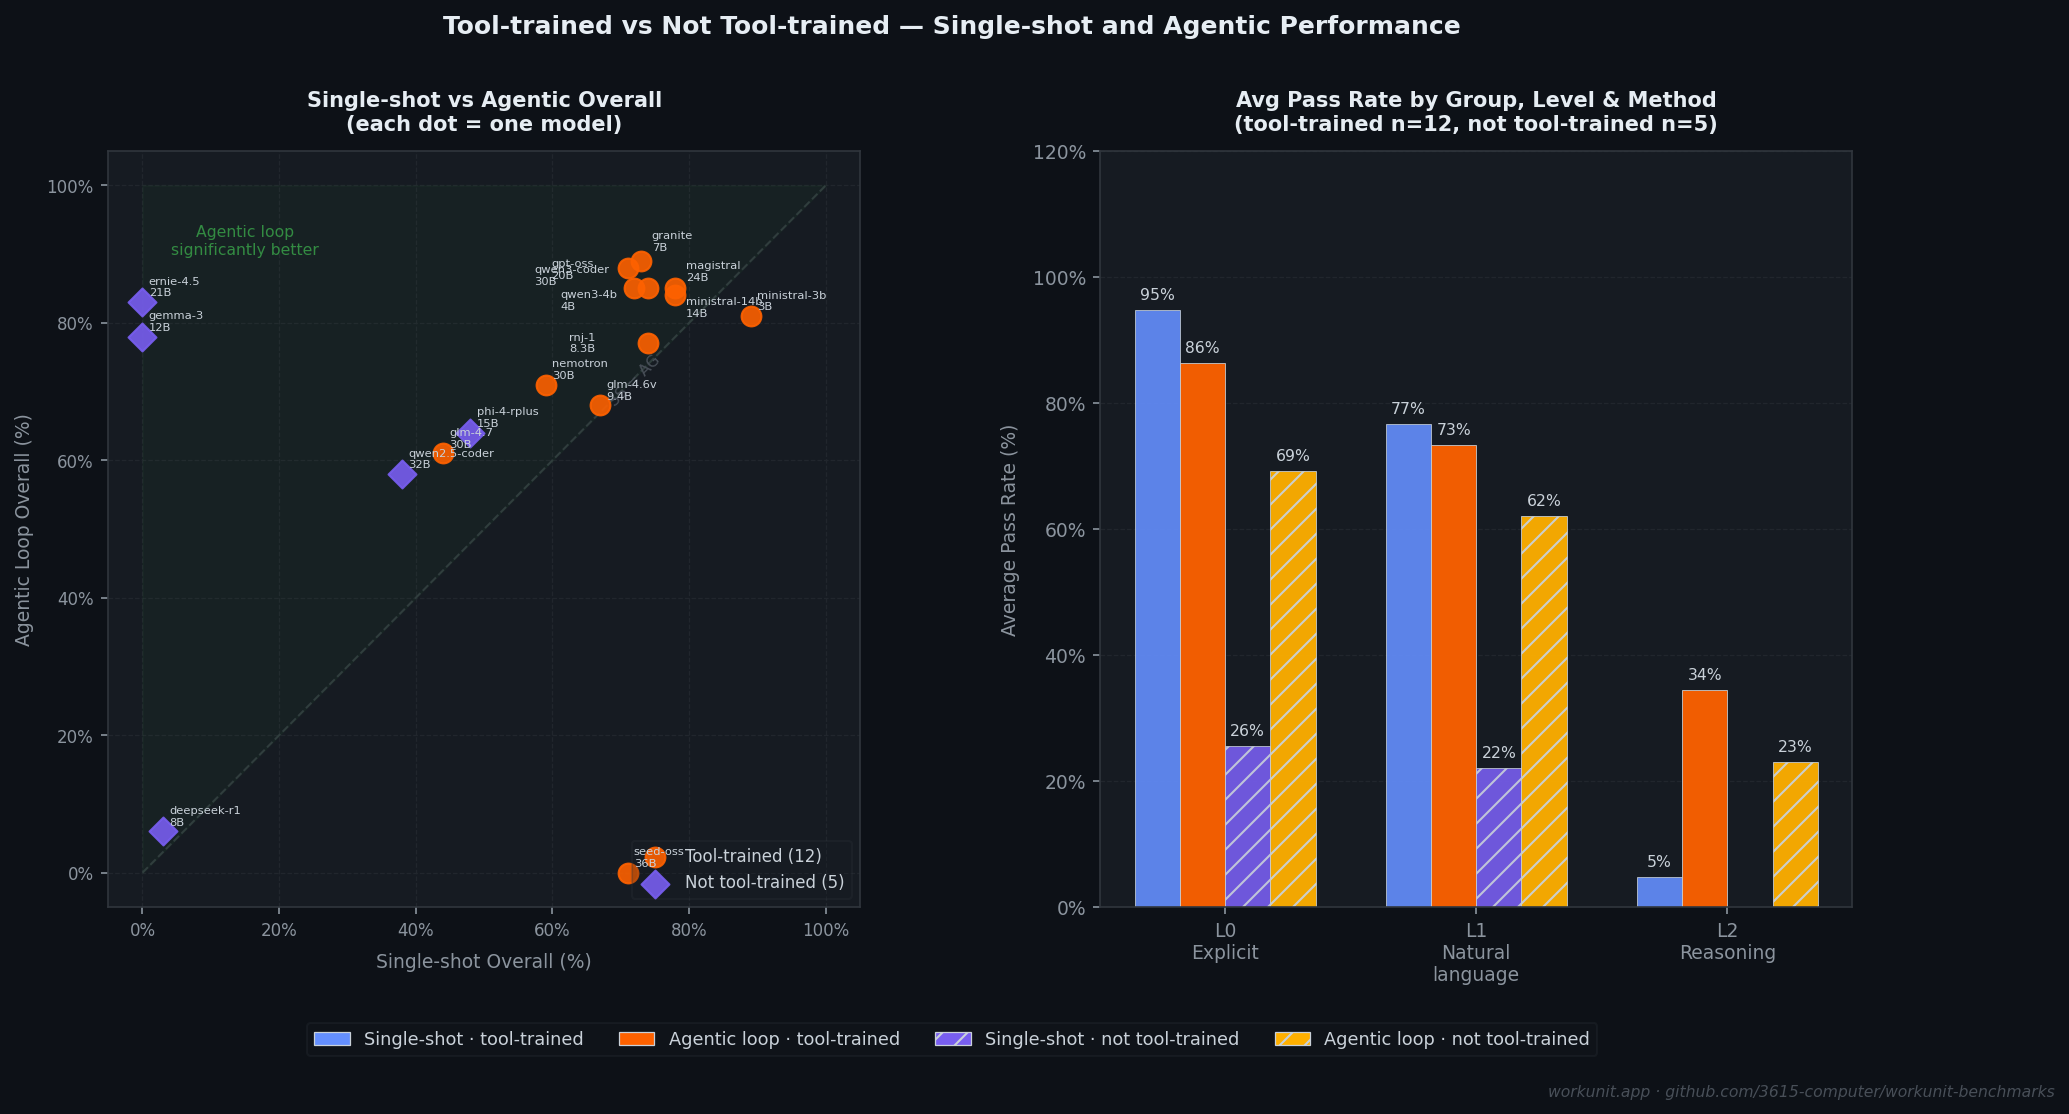
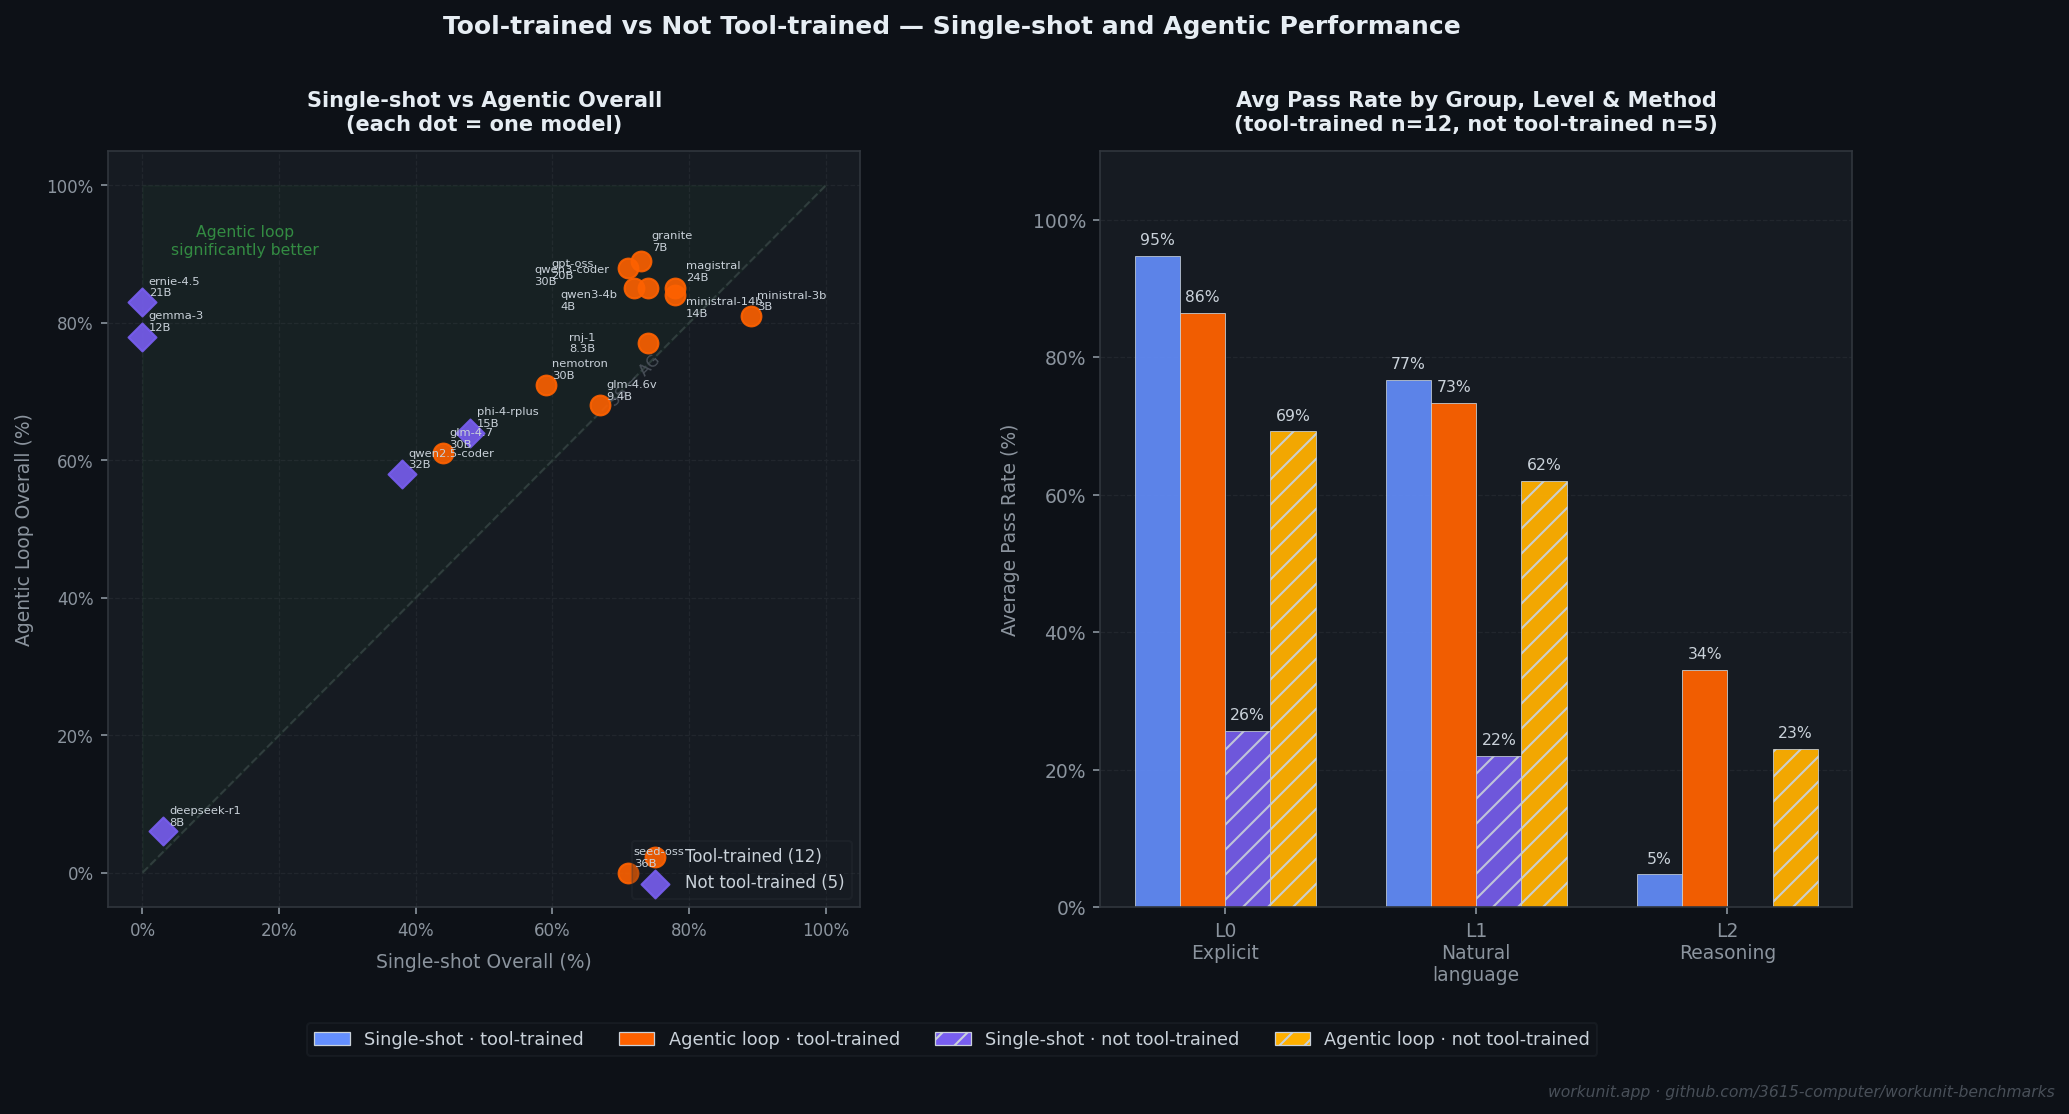
fix(reports): cap graph3 right panel Y-axis at 100%

diff --git a/local-llm-mcp-calling/reports/images/gen_graph3_control_vs_trained.py b/local-llm-mcp-calling/reports/images/gen_graph3_control_vs_trained.py
@@ -160,7 +160,7 @@ ax.set_xticklabels(["L0\nExplicit", "L1\nNatural\nlanguage", "L2\nReasoning"],
 ax.set_ylabel("Average Pass Rate (%)", fontsize=9, color="#8b949e", labelpad=6)
 ax.set_title("Avg Pass Rate by Group, Level & Method\n(tool-trained n=12, not tool-trained n=5)",
              fontsize=10, color="#e6edf3", fontweight="bold", pad=10)
-ax.set_ylim(0, 120)
+ax.set_ylim(0, 110)
 ax.yaxis.set_major_formatter(plt.FuncFormatter(lambda x, _: f"{int(x)}%"))
 ax.tick_params(colors="#8b949e", labelsize=9)
 for spine in ax.spines.values():
